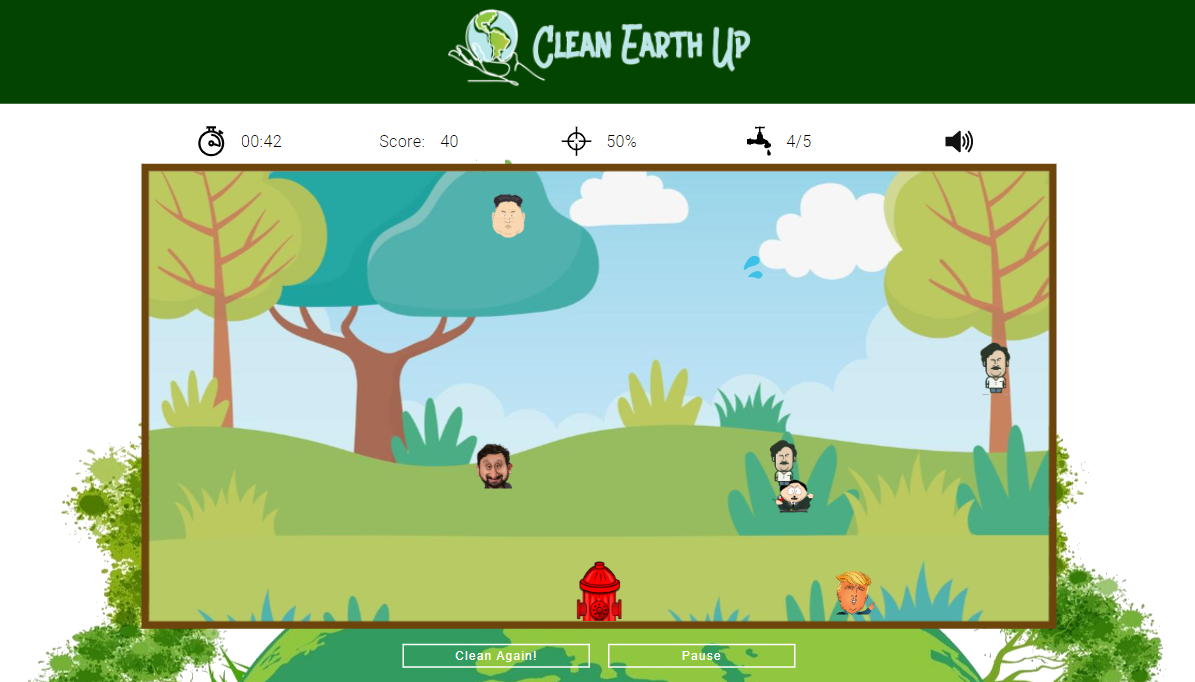
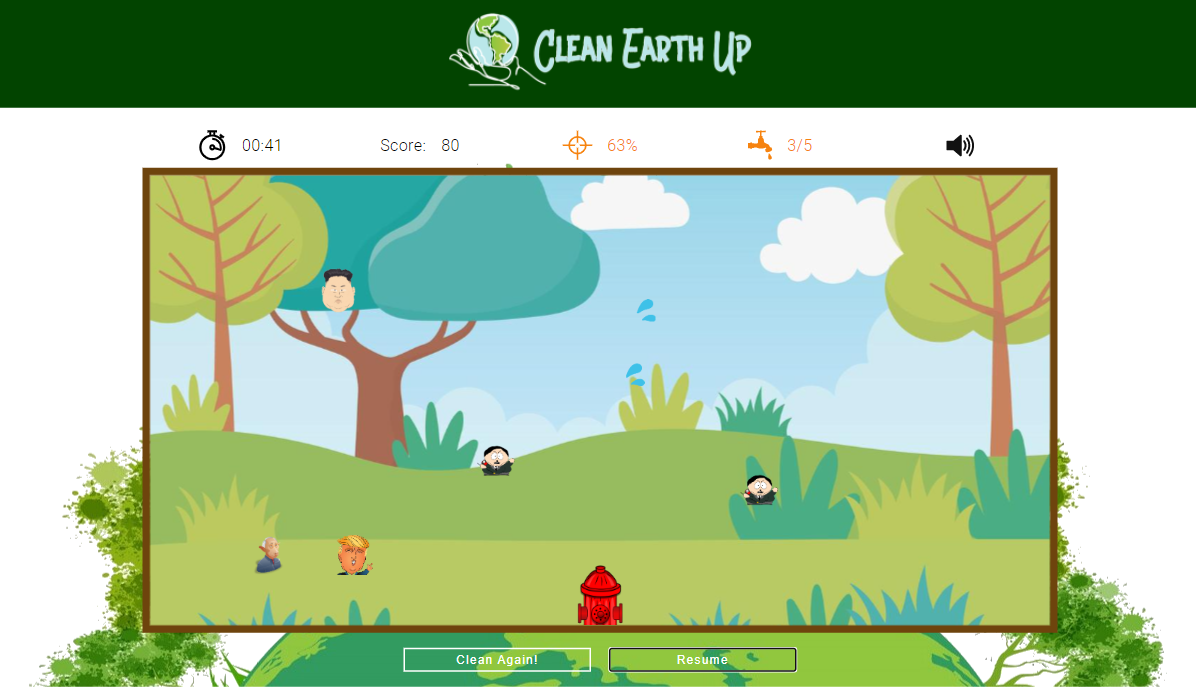
score display + bonus sound

diff --git a/js/script.js b/js/script.js
@@ -27,6 +27,7 @@ let gameIsOn = false;
 let projectiles = [];
 let targets = [];
 let splashes = [];
+let scores = [];
 let points = 0;
 let usedAmmo = 0;
 let targetReached = 0;
@@ -69,8 +70,12 @@ function draw() {//function appelé en continue
 
     targets.forEach(target => target.draw());
     splashes.forEach((splash, idx) => {
-        //splash affiché pendant 60 frames
+        //splashes affichés pendant 60 frames
         (frames + 1 - splash.frame) % 60 === 0 ? splashes.splice(idx, 1) : splash.draw();
+    })
+    scores.forEach((score, idx) => {
+        //scores affichés pendant 60 frames
+        (frames + 1 - score.frame) % 60 === 0 ? scores.splice(idx, 1) : score.draw();
     })
 }
 
@@ -79,7 +84,7 @@ function updateAmmo() {
     displayAmmo.innerHTML = `${maxAmmo - projectiles.length}/${maxAmmo}`;
     //Style
     if (ammo <= 1) {//De 0 à 1 => rouge
-        displayAmmo.style.color = "#e50513";
+        displayAmmo.style.color = "#e50513"; 
         document.querySelector('#img-ammo').setAttribute('src', 'images/robinet-rouge.svg');
     } else if ((ammo > 1) && (ammo <= 3)) {//De 1 à 3 => Orange
         displayAmmo.style.color = "#F6830F";
@@ -168,16 +173,18 @@ function printIntro(content) {
 
 let frames = 0;
 let framesBeforeWave = 0;
-function animLoop() {   //function appelé en continue
-    frames++;
-    framesBeforeWave++;
+function animLoop() {   //function appelé en continue    
+    // gestion jeu en pause
+    if (gameIsOn) {
+        frames++;
+        framesBeforeWave++;
+        draw();
 
-    gameIsOn ? draw() : "";
-
-    //Création de la vague de target quand plus de target ou toutes les 15 secondes
-    if ((targets.length === 0) || (framesBeforeWave % 900 === 0)) {
-        generateTargetWave();
-        framesBeforeWave = 0;
+        //Création de la vague de target quand plus de target ou toutes les 15 secondes
+        if ((targets.length === 0) || (framesBeforeWave % 900 === 0)) {
+            generateTargetWave();
+            framesBeforeWave = 0;
+        }
     }
 
     //Son et style chrono
@@ -210,6 +217,7 @@ function startGame() {
     projectiles = [];
     targets = [];
     splashes = [];
+    scores = [];
     points = 0;
     usedAmmo = 0;
     ammo = maxAmmo;
@@ -218,6 +226,7 @@ function startGame() {
     waveNbr = 0;
     gameIsOn = true;
     //MAJ info du jeu
+    timeRemaining.innerHTML = "01:00";
     displayScore.innerHTML = points;
     displayAccuracy.innerHTML = "0%";
     updateAmmo();

diff --git a/js/projectile.js b/js/projectile.js
@@ -38,7 +38,7 @@ class Projectile {
 
     draw() {
         if (!this.imgDrop) return; // if `this.imgDrop` is not loaded yet => don't draw
-        
+
         this.moveProjectile();
         ctx.drawImage(this.imgDrop, this.x, this.y, this.w, this.h);
     }
@@ -72,11 +72,16 @@ class Projectile {
                 target.y + target.h > this.y &&     // bas de la target vs haut du projectile
                 target.y < this.y + this.h) {       // haut de la target vs bas du projectile
                 targets.splice(idx, 1);             // supp target du tableau
-                splashes.push(new Splash("images/splash.svg",wImgSplash,target.x,target.y,frames));//ajout splash
-                checkSound() ? playAudio('splash'): "";
+                splashes.push(new Splash("images/splash.svg", wImgSplash, target.x, target.y, frames));//ajout splash
+                scores.push(new ScoreBox(`+${target.point + 8}`, target.x, target.y + 60, 20, frames))         //ajout score
+                checkSound() ? playAudio('splash') : "";
                 updateScore(target.point);
-                (checkSound() && targets.length === 0) ? playAudio('killingspree') : "";
-                targetReached++;                        
+                (checkSound() && targets.length === 0) ? playAudio(bonusSound[random(0, bonusSound.length)]) : "";
+                targetReached++;
+                if (targets.length === 0) {
+                    updateScore(20 - 8 + waveNbr * 10);
+                    scores.push(new ScoreBox(`BONUS +${10 + waveNbr * 10}`, 550, 50, 30, frames))
+                }
             }
         });
         return initLength > targets.length ? true : false;

diff --git a/js/target.js b/js/target.js
@@ -1,4 +1,5 @@
 const images = ['cartman_hitler_icon.png', 'pablo.png', 'hanouna.png', 'kim.png', 'alcapone.png', 'trump4.png', 'vladimir-putin-icon.png'];
+const bonusSound = ['killingspree','multikill','unstoppable','dominating'];
 const sensArr = [-1, 1];
 const speedArr = [[5, 2], [4, 3]];
 
@@ -45,7 +46,7 @@ class Target {
     }
     draw() {
         if (!this.imgTarget) return; // if `this.imgDrop` is not loaded yet => don't draw
-        // this.moveTarget();
+        this.moveTarget();
         ctx.drawImage(this.imgTarget, this.x, this.y, this.w, this.h);
     }
     moveTarget() {

diff --git a/js/objet.js b/js/objet.js
@@ -25,3 +25,21 @@ class Splash extends Objet {
         this.frame = frame;
     }
 }
+
+class ScoreBox {
+    constructor(text,x, y,size,frame){
+        this.text = text;
+        this.x = x;
+        this.y = y;
+        this.size = size;
+        this.frame = frame;
+    }
+
+    draw(){
+        ctx.font = `900 ${this.size}px Roboto`;
+        ctx.fillStyle = "#E50513";
+        ctx.globalAlpha = 0.6;
+        ctx.fillText(this.text, this.x, this.y);
+        ctx.globalAlpha = 1;
+    }
+}

diff --git a/index.html b/index.html
@@ -37,6 +37,15 @@
     <audio id="killingspree">
         <source src="audio/killingspree.mp3" />
     </audio>
+    <audio id="multikill">
+        <source src="audio/multikill.mp3" />
+    </audio>
+    <audio id="unstoppable">
+        <source src="audio/unstoppable.mp3" />
+    </audio>
+    <audio id="dominating">
+        <source src="audio/dominating.mp3" />
+    </audio>
     <nav>
         <img src="images/clean6.png" alt="logo">
     </nav>
